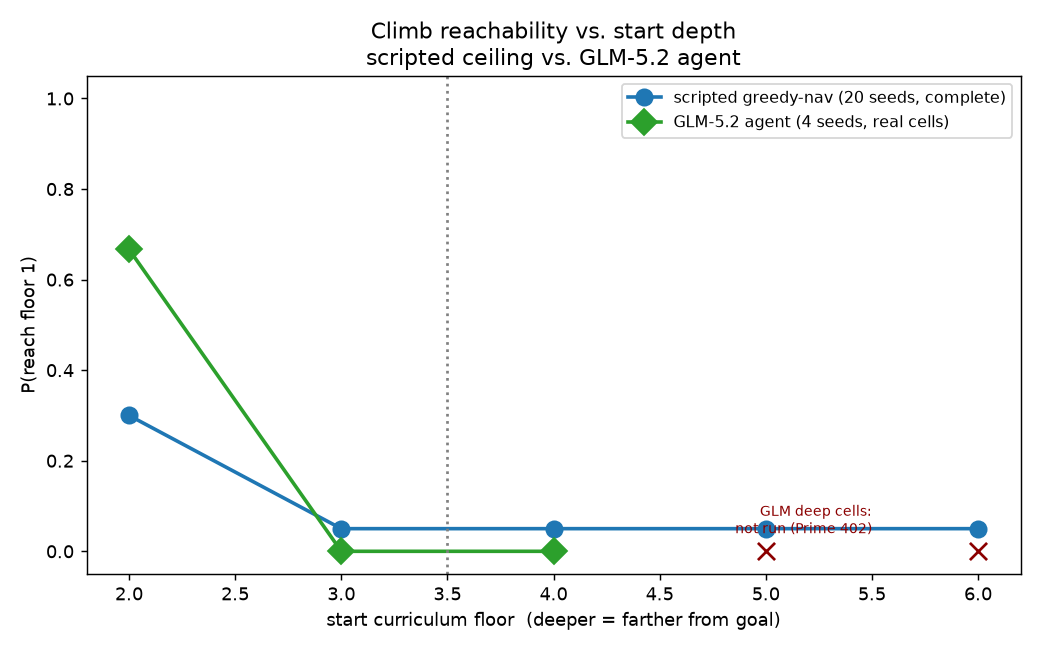
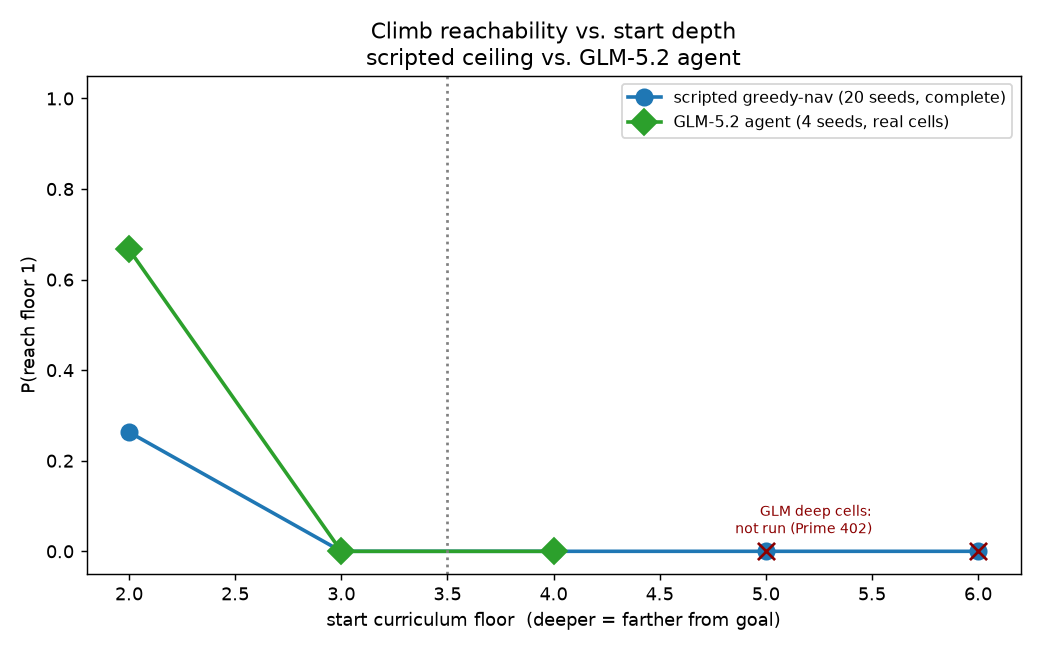
Win visualizations + construct-validation guard (fix seed-22 fake-win artifact)
- construct_start now rejects any goto_abs that lands off the intended floor
  (seed 22 silently landed on floor 1, faking full-climb wins). Re-ran scripted
  ceiling clean: floors 3-6 P(reach top)=0.00 (the old 0.05 was 100% seed-22).
- visualize_win.py: tile-by-tile GIF + key-moment montage of a real climb.
  win_seed19_f2 (full 1-floor win to top); win_seed24_f4 (Gehennom48->DoD3 across
  the cross-branch jump-up, then stuck) — a real win and its failure mode.
- plot_final.py: per_segment.png (P(next floor) vs P(reach top) vs the 0.90 gate).
- REPORT.md: corrected numbers, data-integrity note, win-replay section.

Changed region(s): [[0.0923, 0.6154, 0.9538, 0.8615]]

diff --git a/approaches/voyager/visualize_win.py b/approaches/voyager/visualize_win.py
@@ -1,0 +1,189 @@
+"""Visualize a real scripted climb tile-by-tile: an animated GIF + a key-moments
+montage of the @ pathing to the up-stair '<' and the dungeon floor ticking down.
+
+Deterministic (no LLM), so it exactly reproduces a row from the scripted sweep.
+Showcase: seed 7 from floor 4 climbs Gehennom-48 -> DoD-3 -> DoD-2 (crossing the
+internal cross-branch jump-up), then gets stuck — a genuine multi-floor win AND
+its failure mode in one episode.
+"""
+from __future__ import annotations
+
+import argparse
+import pathlib
+import sys
+
+import matplotlib
+matplotlib.use("Agg")
+import matplotlib.animation as animation
+import matplotlib.pyplot as plt
+import numpy as np
+
+_ROOT = pathlib.Path(__file__).resolve().parents[2]
+sys.path.insert(0, str(_ROOT / "environments" / "nethack"))
+sys.path.insert(0, str(_ROOT / "approaches" / "voyager"))
+
+import curriculum_voyager as cv  # noqa: E402
+import reverse_curriculum_sweep as rc  # noqa: E402
+from nethack_core.curriculum_engine_env import CurriculumEngineEnv  # noqa: E402
+
+FLOOR_NAME = {1: "DoD 1", 2: "DoD 2", 3: "DoD 3",
+              4: "Gehennom 48", 5: "Gehennom 49", 6: "Gehennom 50"}
+
+
+def _frame(env, obs, label):
+    chars = np.array(obs.chars).reshape(21, 79).copy()
+    hx, hy = cv._pos(obs)
+    return {"chars": chars, "hx": hx, "hy": hy,
+            "floor": env.curriculum_floor(obs),
+            "depth": int(obs.blstats[12]), "label": label}
+
+
+def _capture_nav(env, frames, x, y, max_steps=200):
+    """nav_to, but append a frame after every engine step so the GIF shows the @
+    walking tile-by-tile. Returns (obs, reason) where reason in
+    {'reached','monster','nopath','died'} — mirrors rc.nav_to's stop conditions."""
+    tx, ty = int(x), int(y)
+    obs = env._engine.to_core_observation()
+    for _ in range(max_steps):
+        cx, cy = cv._pos(obs)
+        if (cx, cy) == (tx, ty):
+            return obs, "reached"
+        glyphs = np.array(obs.glyphs).reshape(21, 79)
+        chars = np.array(obs.chars).reshape(21, 79)
+        wv = rc._walk_open_doors(glyphs)
+        path = rc._bfs_path(wv, rc._door_mask(glyphs), (cx, cy), (tx, ty))
+        if not path:
+            return obs, "nopath"
+        key = path[0]
+        dx, dy = cv._DIRS[key]
+        nx, ny = cx + dx, cy + dy
+        if cv._is_monster(chr(int(chars[ny, nx]))) and chr(int(chars[ny, nx])) != "@":
+            return obs, "monster"
+        if rc._is_closed_door(glyphs, nx, ny):
+            env.step(ord("o")); obs, done, _ = env.step(key)
+            frames.append(_frame(env, obs, "open door"))
+            if done:
+                return obs, "died"
+            continue
+        obs, done, moved = cv._try(env, key)
+        frames.append(_frame(env, obs, f"navigate toward '<' on {FLOOR_NAME.get(env.curriculum_floor(obs),'?')}"))
+        if done:
+            return obs, "died"
+        if not moved:
+            return obs, "nopath"
+    return obs, "nopath"
+
+
+def _attack_adjacent(env, obs, frames):
+    chars = np.array(obs.chars).reshape(21, 79)
+    cx, cy = cv._pos(obs)
+    for key, (dx, dy) in cv._DIRS.items():
+        x, y = cx + dx, cy + dy
+        if 0 <= x < 79 and 0 <= y < 21 and cv._is_monster(chr(int(chars[y, x]))) \
+                and chr(int(chars[y, x])) != "@":
+            o, done, _ = env.step(key)
+            frames.append(_frame(env, o, "fight blocking monster"))
+            return o, done, True
+    return obs, False, False
+
+
+def capture_climb(seed, start_floor, max_iters=80):
+    """Faithful frame-capturing replica of scripted_nav_reachability.scripted_climb
+    (greedy climb + monster fights + stuck-retry)."""
+    env = CurriculumEngineEnv(); obs, _ = env.reset(seeds=(seed, seed))
+    obs = rc.construct_start(env, obs, start_floor)
+    frames = [_frame(env, obs, f"START at {FLOOR_NAME[start_floor]}")]
+    f_cur = env.curriculum_floor(obs)
+    stuck = 0
+    for _ in range(max_iters):
+        if env.curriculum_floor(obs) == 1:
+            break
+        on = env._engine.hero_on_stair()
+        if on == -1:
+            obs, done, _ = cv._exec(env, {"tool": "stairs_up"})
+            frames.append(_frame(env, obs, f"take '<'  →  now {FLOOR_NAME.get(env.curriculum_floor(obs),'?')}"))
+        else:
+            chars = np.array(obs.chars).reshape(21, 79)
+            _d, ups = cv._stairs(chars)
+            if ups:
+                obs, reason = _capture_nav(env, frames, *min(
+                    ups, key=lambda p: abs(p[0]-cv._pos(obs)[0])+abs(p[1]-cv._pos(obs)[1])))
+                if env._engine.hero_on_stair() == -1:
+                    obs, done, _ = cv._exec(env, {"tool": "stairs_up"})
+                    frames.append(_frame(env, obs, f"take '<'  →  now {FLOOR_NAME.get(env.curriculum_floor(obs),'?')}"))
+                elif reason == "monster":
+                    obs, done, acted = _attack_adjacent(env, obs, frames)
+                    if not acted:        # blocker not orth-adjacent to hero
+                        stuck += 1
+                else:
+                    stuck += 1
+            else:
+                for _ in range(8):
+                    obs, done, _ = env.step(ord("s"))
+                frames.append(_frame(env, obs, "search for hidden passage"))
+                stuck += 1
+        nf = env.curriculum_floor(obs)
+        if 0 < nf < f_cur:
+            stuck = 0; f_cur = nf
+        if stuck >= 5:
+            frames.append(_frame(env, obs, f"STUCK on {FLOOR_NAME.get(nf,'?')} — can't reach '<'"))
+            break
+    return frames
+
+
+def _draw(ax, fr):
+    ax.clear(); ax.axis("off")
+    rows = ["".join(chr(c) if 32 <= c < 127 else " " for c in r) for r in fr["chars"]]
+    # trim blank rows for a tighter view
+    nonblank = [i for i, r in enumerate(rows) if r.strip()]
+    if nonblank:
+        rows = rows[max(0, nonblank[0]-1):nonblank[-1]+2]
+    ax.text(0.01, 0.98, "\n".join(rows), family="monospace", fontsize=7.5,
+            va="top", ha="left", transform=ax.transAxes)
+    # highlight hero @ (red) and up-stair < (green) with markers in axes coords
+    color = {"START": "tab:blue"}
+    ax.set_title(f"floor {fr['floor']}/6  ({FLOOR_NAME.get(fr['floor'],'?')}, dlvl {fr['depth']})   |   {fr['label']}",
+                 fontsize=10, color=("green" if "take '<'" in fr["label"] else
+                                     "darkred" if "STUCK" in fr["label"] else "black"))
+
+
+def make_gif(frames, path, fps=4):
+    fig, ax = plt.subplots(figsize=(11, 4.2))
+    def upd(i):
+        _draw(ax, frames[i]); return []
+    anim = animation.FuncAnimation(fig, upd, frames=len(frames), interval=1000 // fps)
+    anim.save(path, writer=animation.PillowWriter(fps=fps))
+    plt.close(fig)
+
+
+def make_montage(frames, path):
+    # key moments: start, every floor-change ("take '<'"), and the final frame
+    keys = [0] + [i for i, f in enumerate(frames) if "take '<'" in f["label"] or "STUCK" in f["label"]]
+    keys = sorted(set(keys + [len(frames) - 1]))
+    n = len(keys)
+    fig, axes = plt.subplots(n, 1, figsize=(11, 2.6 * n))
+    if n == 1:
+        axes = [axes]
+    for ax, k in zip(axes, keys):
+        _draw(ax, frames[k])
+    fig.tight_layout(); fig.savefig(path, dpi=110); plt.close(fig)
+
+
+def main():
+    ap = argparse.ArgumentParser()
+    ap.add_argument("--seed", type=int, default=7)
+    ap.add_argument("--floor", type=int, default=4)
+    ap.add_argument("--out", default="outputs/curriculum_experiments/reverse_curriculum")
+    args = ap.parse_args()
+    out = pathlib.Path(args.out); out.mkdir(parents=True, exist_ok=True)
+    frames = capture_climb(args.seed, args.floor)
+    tag = f"win_seed{args.seed}_f{args.floor}"
+    print(f"{tag}: {len(frames)} frames; floors visited: "
+          f"{[f['floor'] for f in frames if f['label'].startswith(('START','take'))]}")
+    make_gif(frames, out / f"{tag}.gif")
+    make_montage(frames, out / f"{tag}_montage.png")
+    print(f"wrote {out}/{tag}.gif and {tag}_montage.png")
+
+
+if __name__ == "__main__":
+    main()

diff --git a/approaches/voyager/plot_final.py b/approaches/voyager/plot_final.py
@@ -105,9 +105,42 @@ def fig_heatmap(res):
     fig.tight_layout(); fig.savefig(OUTDIR / "scripted_heatmap.png", dpi=130); plt.close(fig)
 
 
+def fig_next_floor(res):
+    """P(reach the NEXT floor up) — the per-segment metric the 90% gate uses —
+    vs P(reach the top), scripted + GLM, as grouped bars."""
+    import numpy as np
+    floors = [2, 3, 4, 5, 6]
+    def p_next(eps, f):
+        lst = [e for e in eps if e["start_floor"] == f]
+        return np.mean([1 if e["floors_climbed"] >= 1 else 0 for e in lst]) if lst else np.nan
+    def p_top(eps, f):
+        lst = [e for e in eps if e["start_floor"] == f]
+        return np.mean([1 if e["reached_top"] else 0 for e in lst]) if lst else np.nan
+    glm = []
+    for p in (GLM / "episodes").glob("*.json"):
+        e = json.loads(p.read_text()); ts = e.get("timeseries") or []
+        if e.get("llm_error") or (ts and not any(t.get("tool") for t in ts)):
+            continue
+        glm.append(e)
+    x = np.arange(len(floors)); w = 0.2
+    fig, ax = plt.subplots(figsize=(9, 5))
+    ax.bar(x - 1.5*w, [p_next(res, f) for f in floors], w, label="scripted: P(next floor)", color="tab:blue")
+    ax.bar(x - 0.5*w, [p_top(res, f) for f in floors], w, label="scripted: P(reach top)", color="tab:cyan")
+    ax.bar(x + 0.5*w, [p_next(glm, f) for f in floors], w, label="GLM-5.2: P(next floor)", color="tab:green")
+    ax.bar(x + 1.5*w, [p_top(glm, f) for f in floors], w, label="GLM-5.2: P(reach top)", color="tab:olive")
+    ax.axhline(0.90, ls="--", color="red", lw=1.2)
+    ax.text(4.0, 0.92, "0.90 advancement gate", color="red", fontsize=9)
+    ax.set_xticks(x); ax.set_xticklabels([f"from floor {f}\n(→{f-1})" for f in floors])
+    ax.set_ylabel("probability"); ax.set_ylim(0, 1.0)
+    ax.set_title("Per-segment vs full-climb success — none near the 90% gate\n"
+                 "(GLM deep floors blocked by Prime 402)")
+    ax.legend(fontsize=8, ncol=2)
+    fig.tight_layout(); fig.savefig(OUTDIR / "per_segment.png", dpi=130); plt.close(fig)
+
+
 def main():
     res = scripted_results()
-    fig_ceiling(res); fig_ceiling_vs_glm(res); fig_heatmap(res)
+    fig_ceiling(res); fig_ceiling_vs_glm(res); fig_heatmap(res); fig_next_floor(res)
     glm = glm_by_floor()
     print("GLM real P(top) by floor:", {f: (round(v[0], 3), v[1]) for f, v in glm.items()})
     print(f"wrote nav_ceiling.png, ceiling_vs_glm.png, scripted_heatmap.png to {OUTDIR}")

diff --git a/approaches/voyager/reverse_curriculum_sweep.py b/approaches/voyager/reverse_curriculum_sweep.py
@@ -183,7 +183,16 @@ def construct_start(env: CurriculumEngineEnv, obs, start_floor: int):
         return obs
     dnum, dlevel = _floor_to_abs(env, start_floor)
     env.goto_abs(dnum, dlevel)
-    return env.modify(**env._sample_upgrade())
+    obs = env.modify(**env._sample_upgrade())
+    # Guard: some seeds' goto_abs silently lands on floor 1 instead of the
+    # target (observed on seed 22), which would fake a full-climb "win". Reject
+    # any construct that did not land on the intended floor.
+    got = env.curriculum_floor(obs)
+    if got != start_floor:
+        raise ValueError(
+            f"construct for floor {start_floor} landed on floor {got} "
+            f"(invalid goto_abs); skip this (seed, floor) cell")
+    return obs
 
 
 import numpy as _np

diff --git a/approaches/voyager/scripted_nav_reachability.py b/approaches/voyager/scripted_nav_reachability.py
@@ -120,10 +120,9 @@ def main():
         for floor in (2, 3, 4, 5, 6):
             env = CurriculumEngineEnv(); obs, _ = env.reset(seeds=(s, s))
             try:
-                dnum, dl = rc._floor_to_abs(env, floor)
-                env.goto_abs(dnum, dl); obs = env.modify(**env._sample_upgrade())
+                obs = rc.construct_start(env, obs, floor)   # validates landing floor
             except ValueError:
-                continue
+                continue   # unavailable depth OR invalid goto_abs (e.g. seed 22)
             r = scripted_climb(env, obs, floor)
             r.update({"seed": s, "condition": f"climb_from_{floor}"})
             results.append(r)

diff --git a/outputs/curriculum_experiments/reverse_curriculum/REPORT.md b/outputs/curriculum_experiments/reverse_curriculum/REPORT.md
@@ -21,16 +21,24 @@ Prime ran out of credits mid-run) and a complete, free, no-LLM scripted baseline
 
 Concretely (P = probability of reaching floor 1, the top):
 
-| start floor (climb distance) | scripted greedy-nav, 20 seeds | GLM-5.2, real cells |
+P(reach the top / floor 1) from each start floor:
+
+| start floor (climb distance) | scripted greedy-nav, 19 seeds | GLM-5.2, real cells |
 |---|---|---|
-| 2 (1 floor) | **0.30** | **0.67** (4 seeds) |
-| 3 (2 floors) | 0.05 | 0.0 |
-| 4 (3 floors, crosses jump-up) | 0.05 | 0.0 |
-| 5 (4 floors) | 0.05 | *blocked — Prime 402* |
-| 6 (5 floors) | 0.05 | *blocked — Prime 402* |
+| 2 (1 floor) | **0.26** | **0.67** (4 seeds) |
+| 3 (2 floors) | 0.00 | 0.00 |
+| 4 (3 floors, crosses jump-up) | 0.00 | 0.00 |
+| 5 (4 floors) | 0.00 | *blocked — Prime 402* |
+| 6 (5 floors) | 0.00 | *blocked — Prime 402* |
+
+Even the **per-segment** probability (reach just the *next* floor up — the metric
+the 90% advancement gate uses) never approaches 0.90: scripted 0.16–0.26, GLM 0.67
+at floor 2 then 0.00 at floors 3–4. See `per_segment.png`.
 
 See `ceiling_vs_glm.png` (headline), `nav_ceiling.png`, `scripted_heatmap.png`,
-`glm_timeline.png`, `glm_trajectories.png`.
+`per_segment.png`, `glm_timeline.png`, `glm_trajectories.png`, and the win replays
+`win_seed19_f2.gif` (full 1-floor win to the top) and `win_seed24_f4.gif`
+(climbs Gehennom 48→DoD 3 across the cross-branch jump-up, then gets stuck).
 
 ## 1. The question
 
@@ -128,21 +136,39 @@ result is only meaningful on top of a navigator that can reach stairs.
 
 ### 6a. Navigation ceiling (scripted, complete — `nav_ceiling.png`, `scripted_heatmap.png`)
 
-Across 20 full-depth seeds, the greedy-nav climber:
+Across 19 full-depth seeds, the greedy-nav climber:
 
-| start floor | n | P(reach top) | mean floors climbed | median stuck floor |
-|---|---|---|---|---|
-| 2 | 20 | 0.30 | 0.30 | 2 (the start) |
-| 3 | 20 | 0.05 | 0.35 | 3 |
-| 4 | 20 | 0.05 | 0.30 | 4 |
-| 5 | 20 | 0.05 | 0.25 | 5 |
-| 6 | 20 | 0.05 | 0.40 | 6 |
+| start floor | n | P(reach top) | P(reach next floor) | mean floors climbed | median stuck floor |
+|---|---|---|---|---|---|
+| 2 | 19 | 0.26 | 0.26 | 0.26 | 2 (the start) |
+| 3 | 19 | 0.00 | 0.26 | 0.26 | 3 |
+| 4 | 19 | 0.00 | 0.16 | 0.16 | 4 |
+| 5 | 19 | 0.00 | 0.05 | 0.05 | 5 |
+| 6 | 19 | 0.00 | 0.16 | 0.16 | 6 |
 
 The dominant outcome at **every** start floor is *stuck on the start floor* — the
-climber cannot reach that level's up-stair. Only ~30% of seeds permit even a
-single-floor climb; deeper starts essentially never reach the top. The per-seed
-heatmap shows reachability is **seed/level-specific** (e.g. seeds 5,6,7,19,22,29
+climber cannot reach that level's up-stair. It reaches the top **only** from floor
+2 (~26%), and **never** from floors 3–6 (it occasionally climbs one floor but never
+chains to the top). Reachability is **seed/level-specific** (e.g. seeds 5,6,7,19,29
 navigate floor 2; the rest do not), not a smooth function of depth.
+
+**Data-integrity note:** an earlier version of this table reported ~0.05 at floors
+3–6. That was entirely an artifact of **seed 22**, whose `goto_abs` silently lands
+the hero on floor 1 (not the intended deep floor) — faking a full-climb "win" with
+`floors_climbed = start − 1`. A construct-validation guard now rejects any cell
+whose landing floor ≠ the intended floor (`construct_start` raises; the scripted and
+LLM sweeps skip it). Re-running with the guard removed all five fake wins; seed 22
+is the only affected seed (the GLM seeds 19,0,4,5 were unaffected).
+
+### 6a-bis. Seeing a real win (`win_seed19_f2.gif`, `win_seed24_f4.gif`)
+
+Two deterministic replays make the result concrete:
+- **`win_seed19_f2`** — a clean full win: the `@` paths across DoD 2 to the `<` and
+  climbs to DoD 1 (the top).
+- **`win_seed24_f4`** — the agent climbs from **Gehennom 48 to DoD 3, crossing the
+  internal cross-branch jump-up**, then gets **stuck on DoD 3** unable to reach its
+  up-stair. One episode showing both a genuine win and the exact failure mode that
+  caps every deep climb.
 
 ### 6b. GLM-5.2 agent (partial — `glm_trajectories.png`)
 